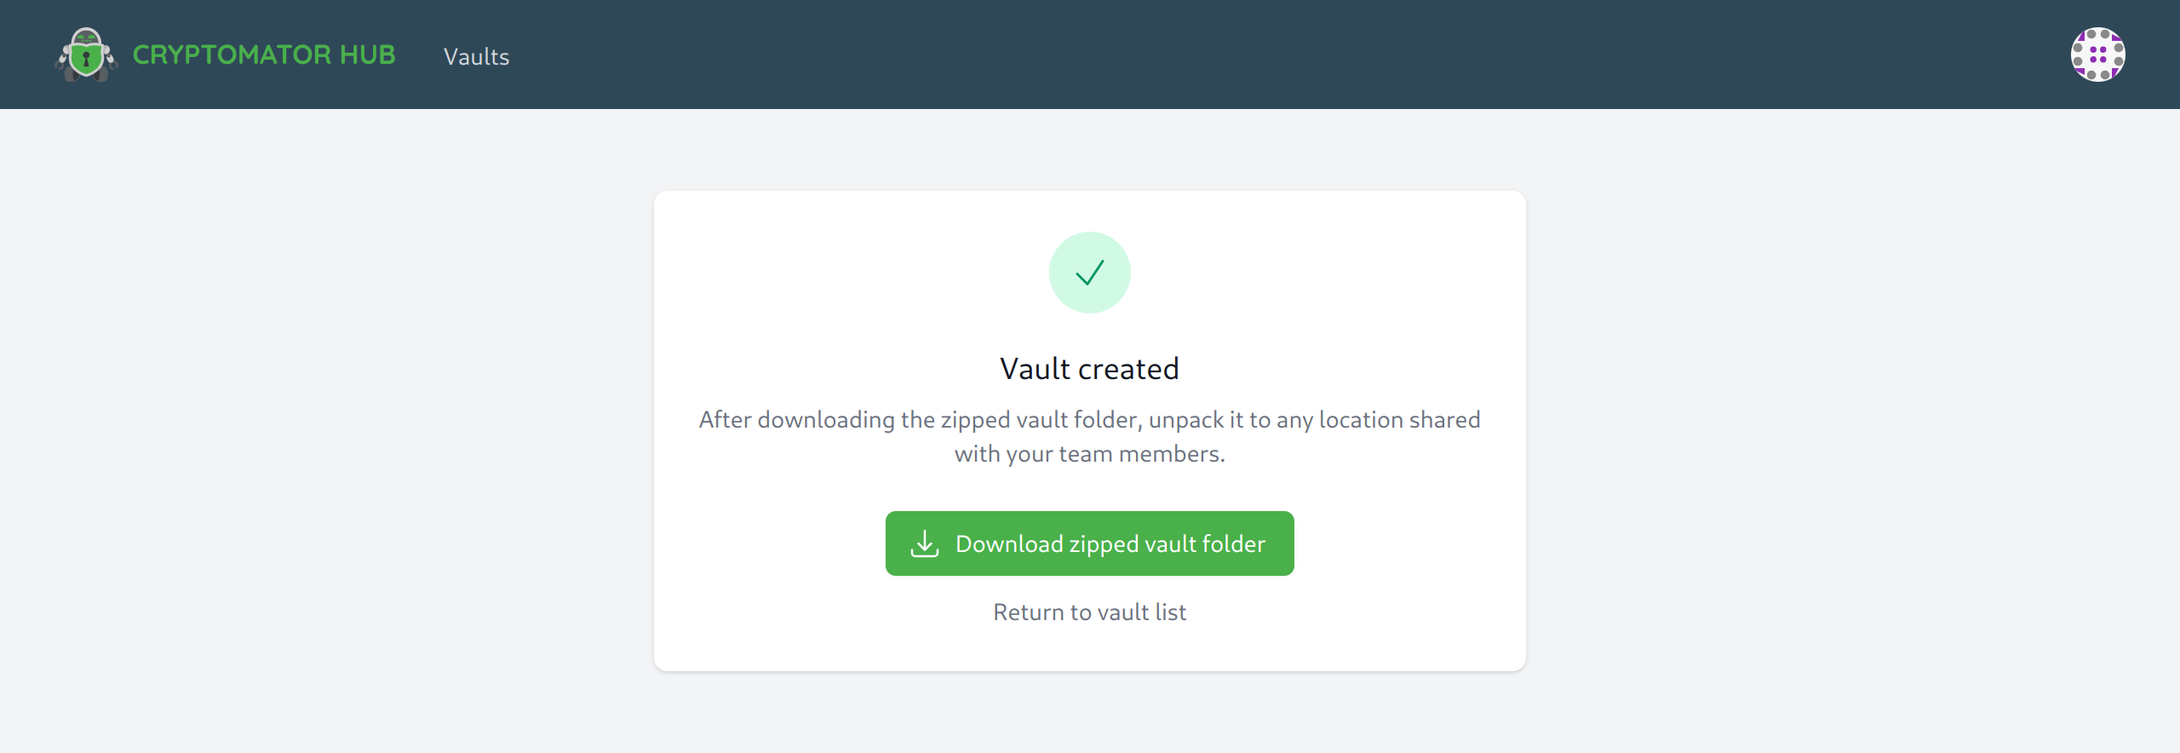
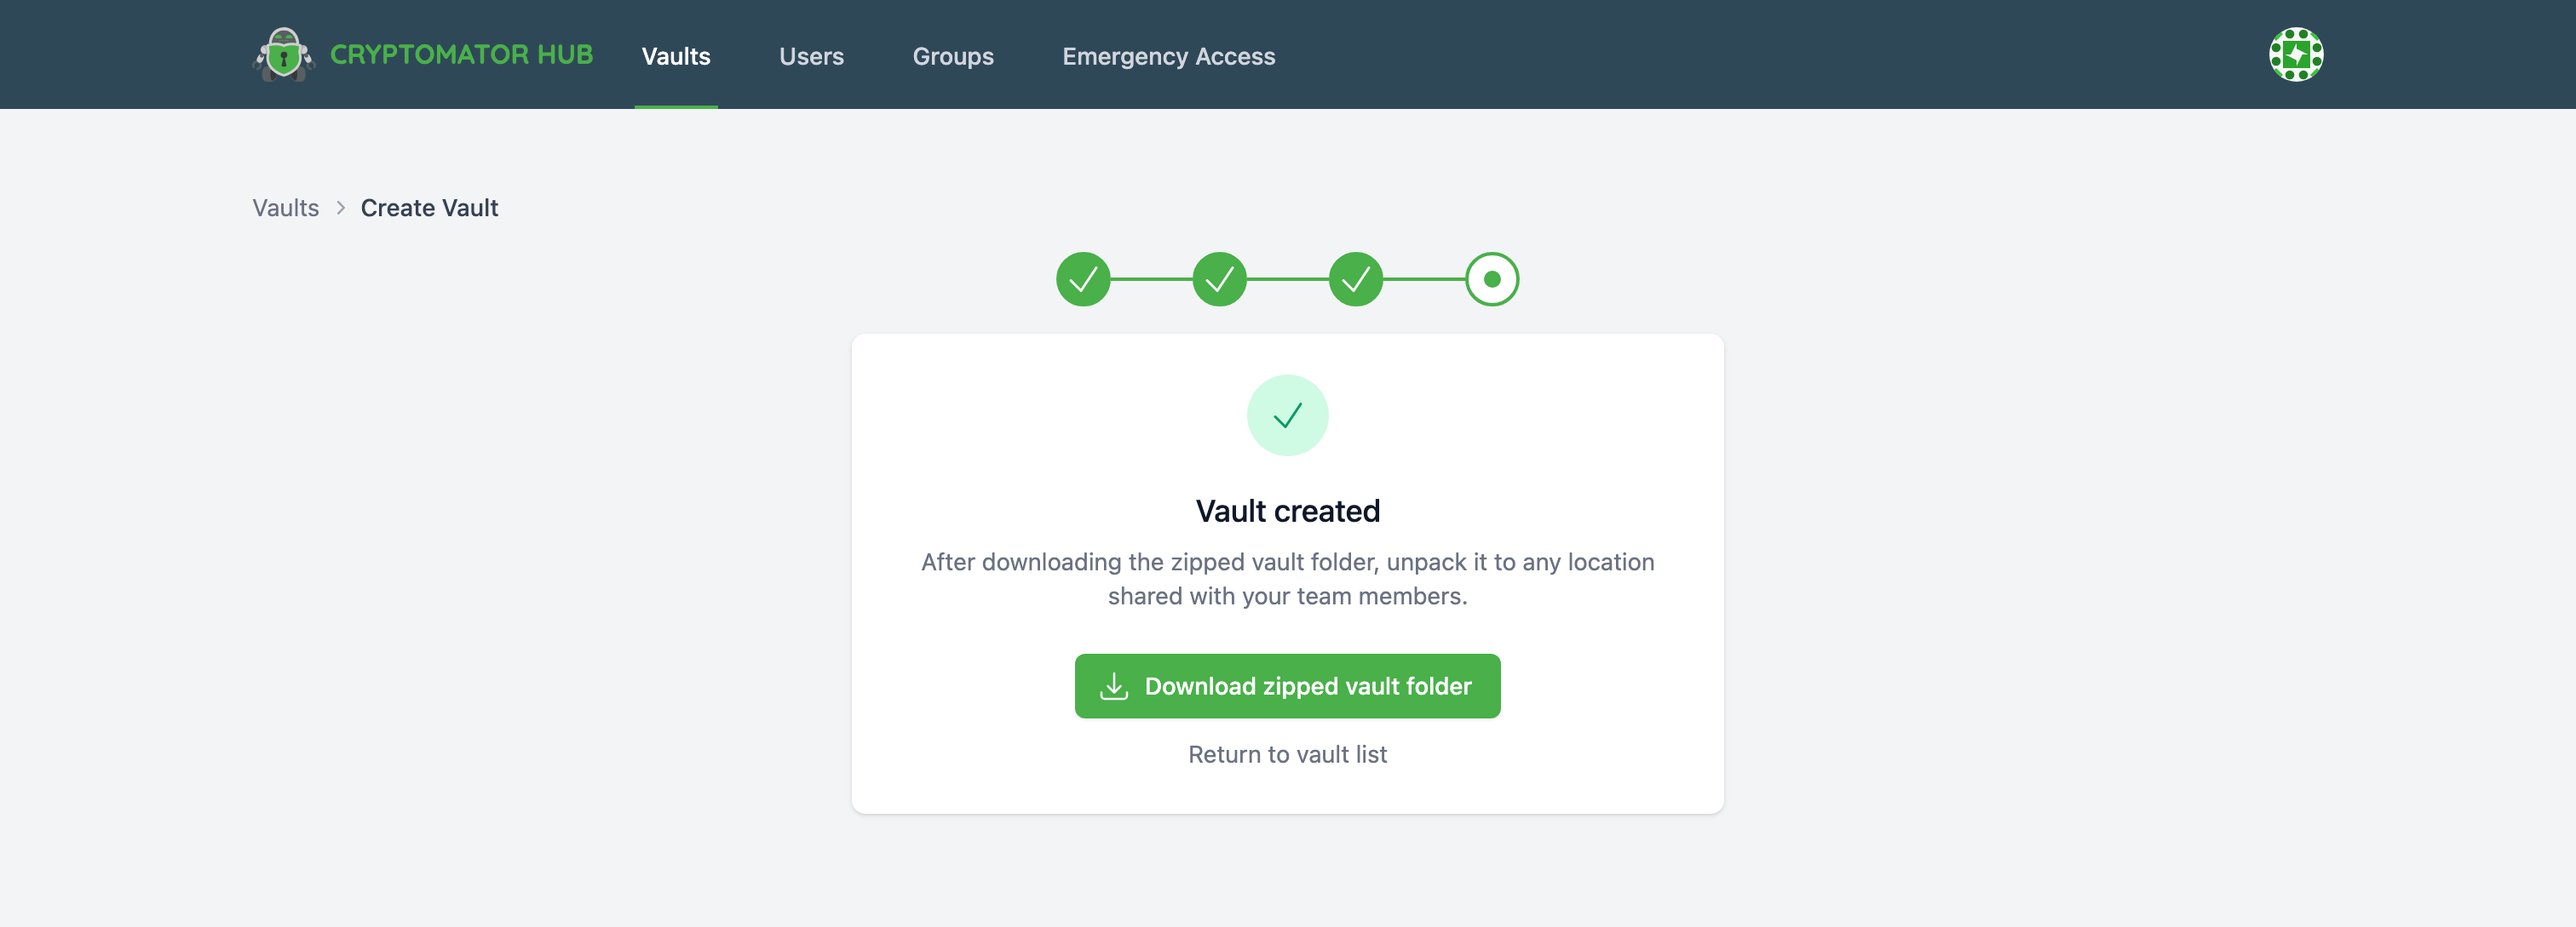
add Emergency Access documentation and screenshots - add dedicated Emergency Access page - document Emergency Access settings and audit log events in Admin - extend Vault Management with setup/fix and creation flow details - add/update related Hub UI screenshots

Changed region(s): [[0.0, 0.0305, 1.0, 0.1527], [0.3125, 0.2749, 0.6875, 0.8247], [0.0938, 0.2138, 0.1875, 0.2443]]

diff --git a/docs/hub/emergency-access.md b/docs/hub/emergency-access.md
@@ -1,0 +1,124 @@
+---
+id: emergency-access
+title: Emergency Access
+sidebar_position: 9
+---
+
+# Emergency Access
+
+:::info Early Access
+This feature is currently in **early access** and will be fully available in an upcoming release.
+:::
+
+:::info Enterprise Feature
+Visit [cryptomator.org](https://cryptomator.org/hub/) for more information about Enterprise features.
+:::
+
+Emergency Access allows a defined council to restore access to a vault using key splitting based on **Shamir's Secret Sharing**. A process can only be completed once enough council members approve it.
+
+## Define Emergency Access During Vault Creation
+
+When creating a new vault, there is a dedicated step called `Define Emergency Access Conditions`. For the full vault creation workflow, see [Vault Management](vault-management.md#create-a-vault).
+
+## Define Emergency Access for Existing Vaults
+
+For existing vaults, Emergency Access can be configured or updated in `Vault Details`. See [Setup/Fix Emergency Access Council](vault-management.md#emergency-access-council).
+
+## Start a Recovery Process
+
+There are two process types:
+
+1. `Change Permissions`: Change vault owners/members
+2. `Change Council`: Change Emergency Access council and threshold
+
+Open the `Emergency Access` page, select the vault, and start the desired process type.
+
+<Image src="/img/hub/emergency_access_vault_list.png" alt="Emergency Access Vault List" width="2560" height="1080" />
+
+Only one running process per type is allowed for a vault.
+
+### Change Permissions
+
+When starting `Change Permissions`, you select:
+
+* future `Owners`
+* future `Members`
+
+Users that are no longer part of the selected set are shown as `Removed`.
+
+<Image src="/img/hub/emergency_access_change_permissions_start.png" alt="Emergency Access Vault List" width="2560" height="1080" />
+
+
+### Change Council
+
+When starting `Change Council`, you select:
+
+* the new council members that should hold emergency key shares
+
+The required keys are defined by the configuration in the [Admin settings](admin.md#emergency-access).
+
+<Image src="/img/hub/emergency_access_change_council_start.png" alt="Emergency Access Vault List" width="2560" height="1080" />
+
+:::note
+When starting a process, the initiating user usually adds the first key share automatically.
+:::
+
+## Approve a Recovery Process
+
+In the `Emergency Access` vault list, a running process shows a split process button.
+If a council member has not yet added their share, the right side of the button shows `Approve now`.
+
+<Image src="/img/hub/emergency_access_vault_list_change_council_approve_now.png" alt="Emergency Access Vault List Approve Now" width="2560" height="1080" />
+
+Hover (or click) the **left side** of the process button (the segment ring area) to open the process details popover.
+This popover shows:
+
+* process type and required key shares
+* current progress
+* process council members
+* per-member status (`Added` / `Pending`)
+
+<Image src="/img/hub/emergency_access_vault_list_hover_process.png" alt="Emergency Access Vault List Hover Process" width="2560" height="1080" />
+
+To approve, click the **right side** of the process button (`Approve now`) to open the `Approve Emergency Access` dialog.
+In this dialog, review the process details and click `Approve` to submit your key share.
+
+<Image src="/img/hub/emergency_access_vault_list_change_council_approve_dialog.png" alt="Emergency Access Vault List Approve Dialog" width="2560" height="1080" />
+
+After submitting your share, the button shows `Waiting for other approvals`. You can track the ongoing process progress in the same process button and its details popover.
+
+## Complete a Recovery Process
+
+As soon as enough shares are available, the process button in the `Emergency Access` vault list shows `Complete now`.
+
+<Image src="/img/hub/emergency_access_vault_list_change_council_complete_now.png" alt="Emergency Access Vault List Complete Now" width="2560" height="1080" />
+
+Click `Complete now` to open the `Complete Emergency Access` dialog. In this dialog, review the process details and click `Complete Process` to finalize the recovery process.
+
+<Image src="/img/hub/emergency_access_vault_list_change_council_complete_dialog.png" alt="Emergency Access Vault List Complete Dialog" width="2560" height="1080" />
+
+Results by type:
+
+* `Change Permissions`: Vault roles are updated and required access grants are redistributed
+* `Change Council`: The recovery key is re-split using the new council configuration
+
+After successful completion, the process is removed.
+
+## Abort a Recovery Process
+
+Running processes can be canceled in the dialog using `Abort this Process`.
+
+<Image src="/img/hub/emergency_access_vault_list_change_council_abort_dialog.png" alt="Emergency Access Vault List Abort Dialog" width="2560" height="1080" />
+
+
+## Typical States and Notes
+
+The following warning states can appear in the Emergency Access list:
+
+* `No Vault Council Member anymore`: The user is still part of a running process but no longer part of the current vault council
+* `Broken Emergency Access`: Too few valid shares remain (for example after council members reset their accounts)
+* `No Redundancy`: No fault tolerance in the council
+
+## Audit Log Events
+
+See [Emergency Access Audit Log events](admin.md#event-type-emergency-access).

diff --git a/docs/hub/vault-management.md b/docs/hub/vault-management.md
@@ -25,6 +25,14 @@ Alternatively, you can also access the list by clicking on the `Vaults` tab in t
 * As an admin of the Hub instance, you can see all vaults, but you can only access those that you have been granted access to.
 :::
 
+:::note Emergency Access Status in Vault List (Enterprise only, early access)
+In the `Vault List`, owners can see the Emergency Access status directly via badges:
+
+* `Council missing`: No council is configured on the vault
+* `Broken Emergency Access`: Too few valid shares remain (for example after council members reset their accounts)
+* `No Redundancy`: No fault tolerance in the council
+:::
+
 ## Create a Vault {#create-a-vault}
 
 :::note
@@ -36,6 +44,25 @@ Every vault has a name and optionally a description.
 Fill out the form and continue the process by clicking the `Next` button in the right corner.
 
 <Image src="/img/hub/create-vault.png" alt="Create a vault" width="2560" height="836" />
+
+If the [Emergency Access](emergency-access.md) feature is enabled, the following step appears:
+
+Here, the conditions for Emergency Access are defined for the new vault.
+If the administrator allows custom council selection, you can adjust the default council.
+Select the council members who should participate in emergency recovery and review the example recovery scenario.
+Click `Next` to continue to the recovery key step.
+
+:::info Early Access
+Emergency Access is currently in **early access** and will be fully available in an upcoming release.
+:::
+
+:::info Enterprise Feature
+Visit [cryptomator.org](https://cryptomator.org/hub/) for more information about Enterprise features.
+:::
+
+
+<Image src="/img/hub/create-vault-emergency-access.png" alt="Define Emergency Access Conditions" width="2560" height="1352" />
+
 
 In the next step, the vault *recovery key* is displayed.
 It can [restore access to the vault data](vault-recovery.md) in case of an emergency, e.g. if Cryptomator Hub is down.
@@ -75,9 +102,11 @@ Open the [vault details](#vault-details) page to manage a vault.
 
 * `Shared with` members list
 * `Update Permissions` button (only clickable if necessary)
-* `Edit Vault Metatdata` button
+* `Edit Vault Metadata` button            
 * `Download Vault Template` button
 * `Show Recovery Key` button
+* `Setup Emergency Access Council` button (Enterprise only and only visible if necessary)
+* `Fix Emergency Access Council` button (Enterprise only and only visible if necessary)
 * `Archive Vault` button
 
 ### Share a Vault {#share-a-vault}
@@ -115,6 +144,10 @@ Download the vault template only once! If you download it multiple times, you wi
 ### Show Recovery Key {#show-recovery-key}
 
 To show the vault recovery key, click on the `Show Recovery Key` button in the [vault details](#vault-details). It shows the same recovery key shown during vault creation. You can use it to [restore access to the vault data](vault-recovery.md) in case of an emergency, e.g. if Cryptomator Hub is down. Store it at a safe location.
+
+### Setup/Fix Emergency Access Council {#emergency-access-council}
+
+To configure [Emergency Access](emergency-access.md) for a vault, click `Setup Emergency Access Council` in the [vault details](#vault-details). If Emergency Access is already configured but needs correction, click `Fix Emergency Access Council`. This opens a dialog where you define the council members and confirm with `Grant`.
 
 ### Archive Vault {#archive-vault}
 

diff --git a/docs/hub/admin.md b/docs/hub/admin.md
@@ -80,6 +80,24 @@ The following events are logged:
 - **Reset User Account** – A user [reset their account](your-account.md#reset-account).
 - **User Keys Change** – A user changed their keys. This happens when, e.g., the user [finished the account setup](your-account.md#account-setup) or when the `Account Key Changed`.
 
+
+#### Emergency Access {#event-type-emergency-access}
+
+:::info Early Access
+This feature is currently in **early access** and will be fully available in an upcoming release.
+:::
+
+- **Emergency Access Setup** – A vault owner set up or updated Emergency Access for a vault (for example by assigning council members and key shares in Vault Details).
+- **Emergency Access Settings Updated** – An admin changed global Emergency Access settings in Admin.
+- **Emergency Access Recovery Started** – A council member started an Emergency Access recovery process.
+- **Emergency Access Recovery Approved** – A council member approved a running recovery process by submitting their recovered key share.
+- **Emergency Access Recovery Completed** – A council member completed a recovery process after enough key shares were collected.
+- **Emergency Access Recovery Aborted** – A council member aborted a running recovery process.
+
+:::note
+When a council member starts a process, they automatically contribute their own key share. This logs both `Emergency Access Recovery Started` and `Emergency Access Recovery Approved`.
+:::
+
 #### Legacy {#event-type-legacy}
 
 - **Claim Vault Ownership** – A user claimed vault ownership. This event is logged when a vault created with hub pre 1.3.0 is claimed by the vault creator using the `Vault Admin Password`.
@@ -132,3 +150,26 @@ If a user resets their account, their [User Key Pair](/docs/security/hub.md#user
 Additionally, any existing trust chains that included the user will be broken, requiring re-verification to restore trust.
 :::
 
+
+## Emergency Access
+
+This configuration defines default Emergency Access values for new or updated vaults.
+
+<Image src="/img/hub/admin-emergency-access.png" alt="Emergency Access" width="1440" height="658" />
+
+Enable `Enable Emergency Access` and configure:
+
+* `Required Keys`: Number of required key shares
+* `Keyholders`: Default council members (only activated users)
+* Optional: `Let vault owners choose different keyholders`
+* Optional: `At least` (minimum members if owners can choose a different council)
+
+:::warning
+A council without redundancy (`Required Keys == number of council members`) is possible, but not recommended.
+:::
+
+:::info Enterprise Feature
+The following Audit Log feature is available only in the **Enterprise Edition**:
+
+- Emergency Access Audit Logs
+:::
